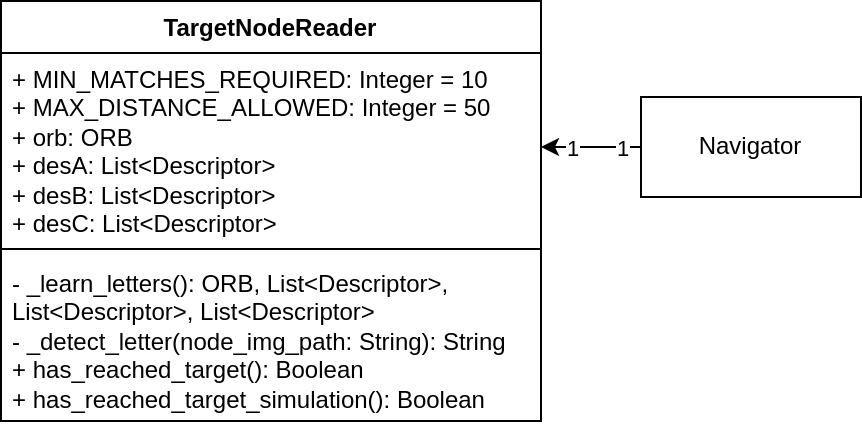
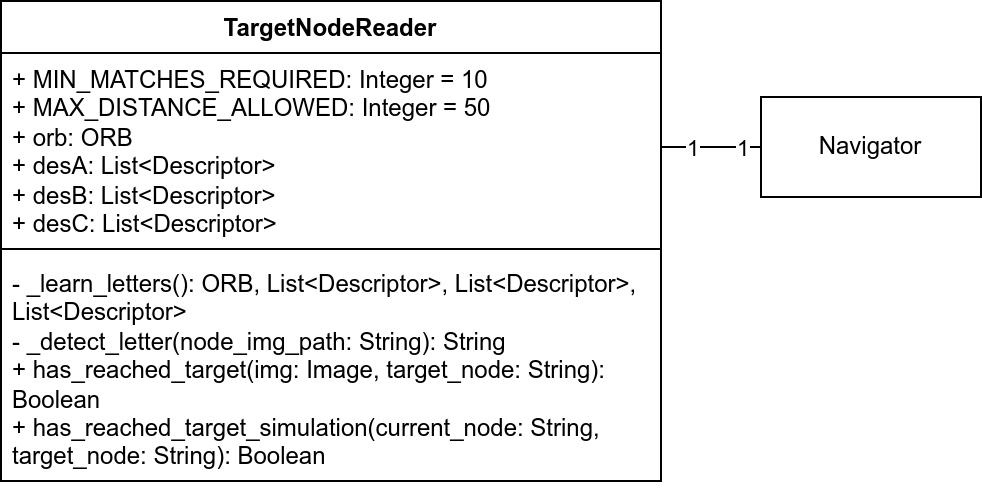
Changes from Overleaf

diff --git a/parts/04c-hauptteil-sprint3.tex b/parts/04c-hauptteil-sprint3.tex
@@ -176,6 +176,15 @@ TODO LUKAS: insert image of raspberry pi hat assembled
     \label{fig:raspiheader-assembly}
 \end{figure}
 
+Die Software dieser Komponenten wurde direkt in Python auf dem Raspberry Pi umgesetzt. Nachfolgend in Abbildung \ref{fig:peripherie-classdiagramm} ist das Klassendiagramm ersichtlich. Wir haben eine RealPeripherieConnector, welcher von BaseConnector erbt, und die Hardwarefunktionen wie Buttons und Buzzer übernimmt. Damit der Programmcode auch stets auf dem PC ausführbar bleibt, haben wir den MockPeripherieConnector, welcher zum Einsatz kommt, wenn kein GPIO zur verfügung steht.
+
+\begin{figure}[H]
+    \centering
+    \includegraphics[width=0.5\linewidth]{assets/IT/robot-sw-architecture-peripherie.png}
+    \caption{Raspberry Pi HAT}
+    \label{fig:peripherie-classdiagramm}
+\end{figure}
+
 \subsubsection{Peripherie Eingabe}
 \label{zieleingabe}
 

diff --git a/parts/04b-hauptteil-sprint2.tex b/parts/04b-hauptteil-sprint2.tex
@@ -330,7 +330,7 @@ Die eigenständige Software zum Erkennen ausgehender Linien wurde bereits in \ac
 
 \begin{figure}[H]
     \centering
-    \includegraphics[width=1\linewidth]{assets/placeholder.png}
+    \includegraphics[width=1\linewidth]{assets/IT/robot-sw-architecture-node_reader_angles.png}
     \caption{Angle-Reader Klassendiagramm}
     \label{fig:angle-reader-classdiagramm}
 \end{figure}
